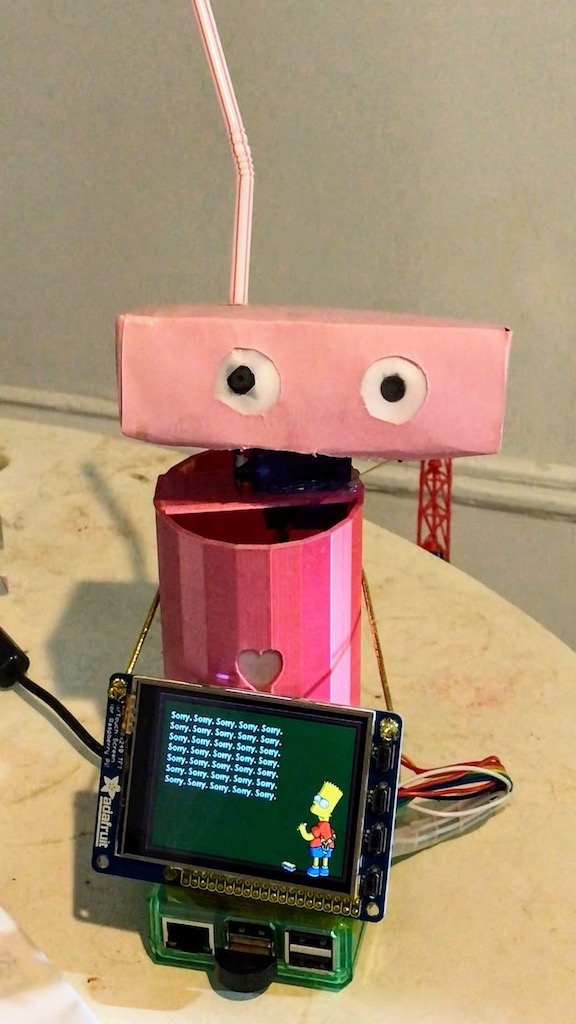
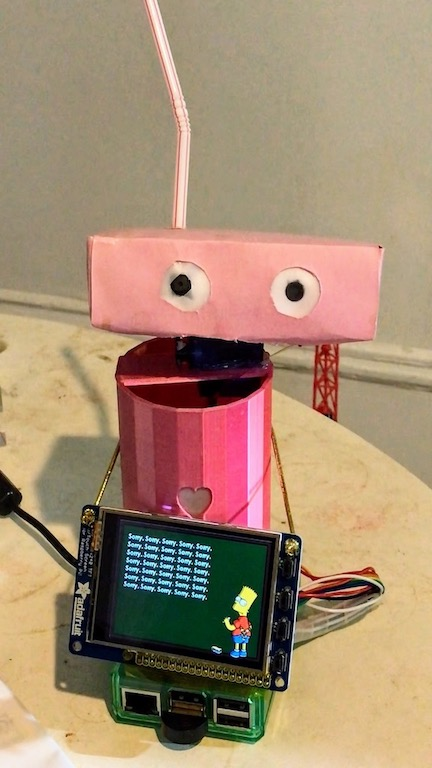
BAck to resizing image file

diff --git a/README.md b/README.md
@@ -20,7 +20,7 @@ The analyzed images are examined for faces - if any faces are found, Ohgee elide
 If a face is "close enough" Ohgee greets the person and bid them farewell when they depart.
 
 Click on the image to see a quick demo...
-[![demo](images/sorry.jpg){:height="720px"}](https://youtu.be/PBYmpuFzArQ "Ohgee demo")
+[![demo](images/sorry.jpg)](https://youtu.be/PBYmpuFzArQ "Ohgee demo")
 
 
 But wait... there's more!
